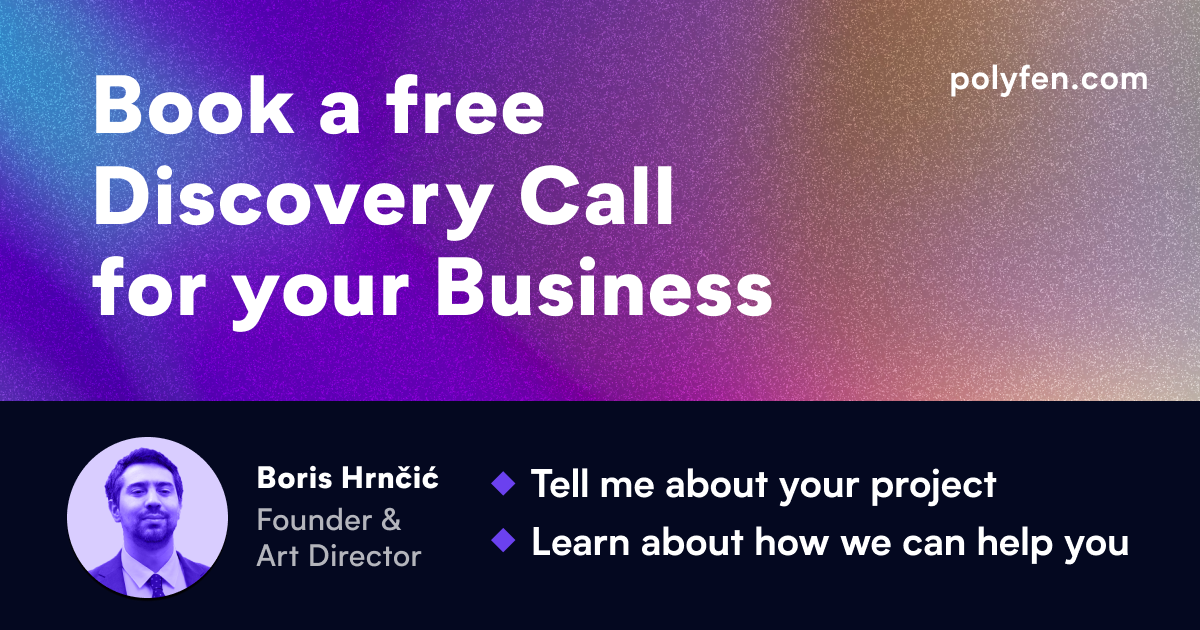
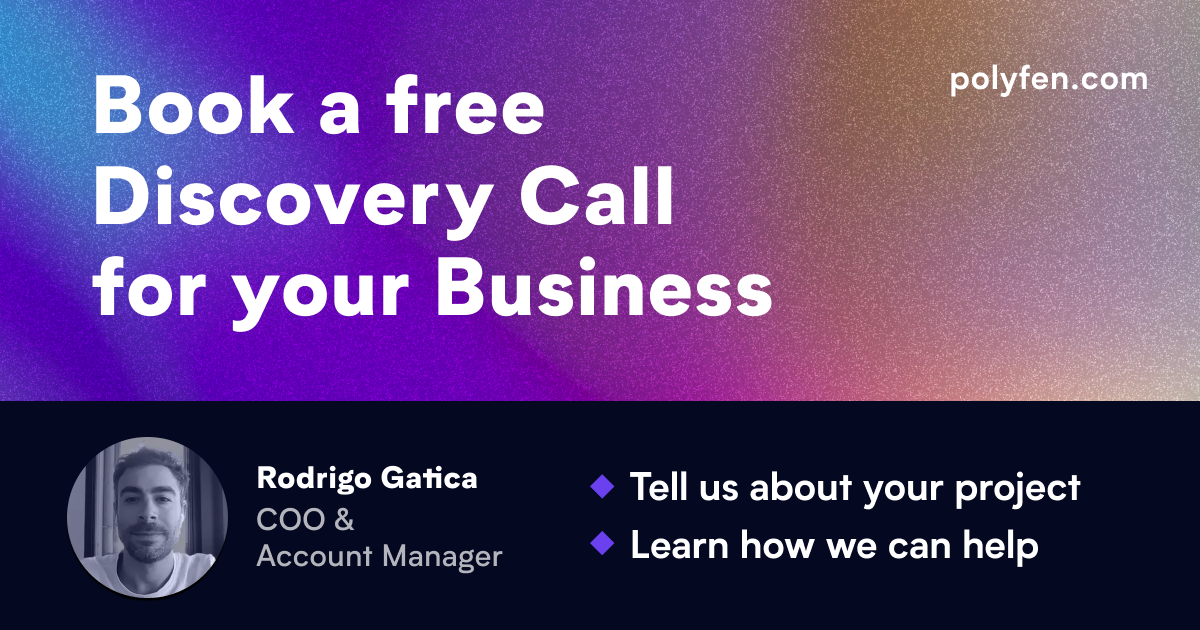
content update

Changed region(s): [[0.0308, 0.6937, 0.9558, 0.9651]]

diff --git a/discovery-call.php b/discovery-call.php
@@ -14,7 +14,7 @@
     <meta property="og:url" content="https://polyfen.com/discovery-call">
     <meta name="keywords" content="">
     <meta name="description" property="og:description"
-        content="Tell me about your project. Hear what we can do for you. No strings attached.">
+        content="Tell us about your project. Hear what we can do for you. No strings attached.">
     <meta property="og:image" content="https://polyfen.com/imgs/meta/discovery-call.png">
     <meta property="og:image:width" content="1200">
     <meta property="og:image:height" content="630">
@@ -24,7 +24,7 @@
     <meta name="twitter:creator" content="@PolyfenGroup">
     <meta name="twitter:title" content="Book a Discovery Call with us">
     <meta name="twitter:description"
-        content="Tell me about your project. Hear what we can do for you. No strings attached.">
+        content="Tell us about your project. Hear what we can do for you. No strings attached.">
     <meta name="twitter:image" content="https://polyfen.com/imgs/meta/discovery-call.png">
     <meta name="robots" content="index, follow">
     <!-- PAGE-SPECIFIC META end -->
@@ -55,22 +55,16 @@
 
         <section class="boris-container container">
             <div class="boris-portrait">
-                <img id="boris-portrait" src="imgs/about/boris-hrncic.webp" alt="Boris Hrnčić" loading="lazy" class="portrait">
+                <img id="boris-portrait" src="imgs/rod-portrait.webp" alt="" loading="lazy" class="portrait">
             </div>
             <div class="boris-bio">
-                <h2 class="heading-4">Boris Hrnčić</h2>
-                <h3 class="caption">Founder & CEO</h3>
+                <h2 class="heading-4">Rodrigo Gatica</h2>
+                <h3 class="caption" style="opacity: 0.8;">COO &amp; Account Manager</h3>
                 <p>
                     Tell us about your project.<br>
                     Learn what we can do for you.<br>
                     No strings attached.
                 </p>
-                <div class="founder-social">
-                    <a class="boris-in-link" href="https://www.linkedin.com/in/borishr/" target="_blank"><img
-                            src="/imgs/icons/linkedin-in.svg" height="25" alt=""><small>LinkedIn</small></a>
-                    <a class="boris-hr-link" href="https://boris.hr/" target="_blank" rel="follow"><img
-                            src="/imgs/icons/globe-white.svg" height="25" alt=""><small>boris.hr</small></a>
-                </div>
             </div>
         </section>
 

diff --git a/includes/calendly.php b/includes/calendly.php
@@ -1,4 +1,4 @@
 <!-- Calendly inline widget begin -->
-<div class="fade-in calendly-inline-widget" data-url="https://calendly.com/borishr/discovery?hide_event_type_details=1&hide_gdpr_banner=1&background_color=120e32&text_color=ffffff&primary_color=722fff" style="min-width:320px;height:700px;"></div>
-<script src="https://assets.calendly.com/assets/external/widget.js" async></script>
+<div class="calendly-inline-widget" data-url="https://calendly.com/polyfen/intro?hide_event_type_details=1&hide_gdpr_banner=1&background_color=120e32&text_color=ffffff&primary_color=722fff" style="min-width:320px;height:700px;"></div>
+<script type="text/javascript" src="https://assets.calendly.com/assets/external/widget.js" async></script>
 <!-- Calendly inline widget end -->
